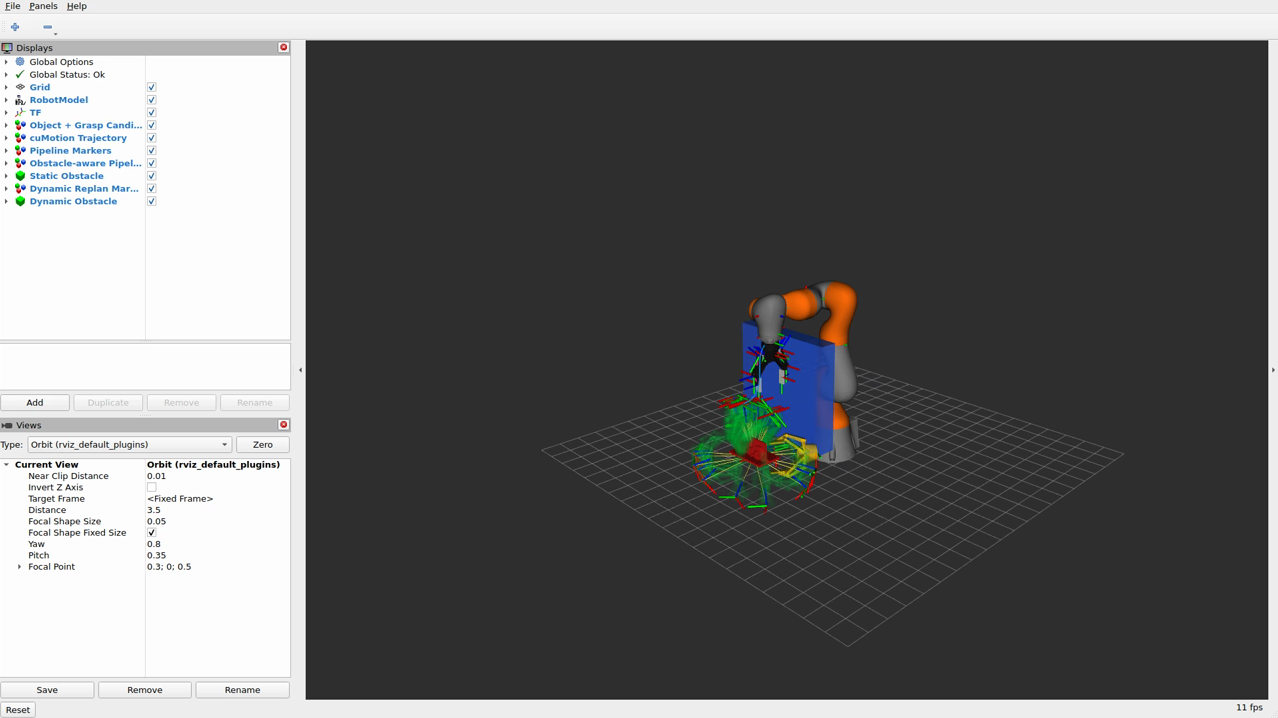
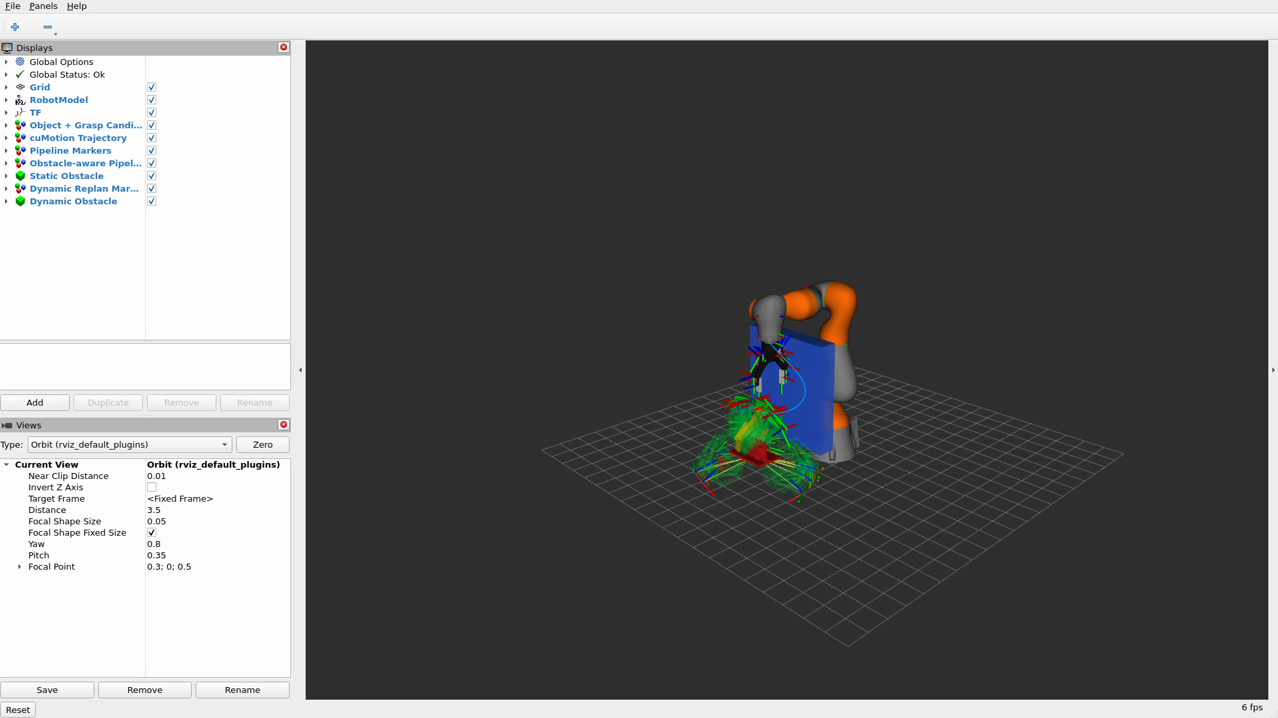
Fix mismatched grasp highlight in dynamic replan demo
dynamic_replan_planner did not instantiate GraspMarkerForwarder, so
the yellow-highlighted gripper shown in RViz was whatever an
earlier planner had latched on /graspgen/object_and_grippers rather
than the grasp this node was actually asking cuMotion to reach.
Create the forwarder and call ``highlight_gripper(selected_index)``
once the grasp is chosen so the recoloured marker and the real
goal pose always agree. Refresh the demo screenshot from a run
with the fix applied.

Changed region(s): [[0.5188, 0.429, 0.6408, 0.7047]]

diff --git a/colcon_ws/src/agile_manip_examples/agile_manip_examples/dynamic_replan_planner.py b/colcon_ws/src/agile_manip_examples/agile_manip_examples/dynamic_replan_planner.py
@@ -45,6 +45,7 @@ from agile_manip_examples.cumotion_utils import (
     moveit_error_name,
 )
 from agile_manip_examples.graspgen_utils import (
+    GraspMarkerForwarder,
     collect_grasp_candidates,
     grasp_frames_already_published,
     load_grasp_scores,
@@ -132,6 +133,12 @@ class DynamicReplanPlanner(Node):
         self.tf_buffer = Buffer()
         self.tf_listener = TransformListener(self.tf_buffer, self)
         self.tf_broadcaster = StaticTransformBroadcaster(self)
+        # Forwarder recolours the candidate gripper markers so the
+        # selected grasp is visibly highlighted in yellow; without it
+        # RViz would just show whatever latched MarkerArray an
+        # earlier planner left on /graspgen/object_and_grippers,
+        # making the highlight disagree with the actual cuMotion goal.
+        self.marker_forwarder = GraspMarkerForwarder(self)
 
         self._external_obstacle_xyz = None
         self._external_sub = self.create_subscription(
@@ -142,6 +149,7 @@ class DynamicReplanPlanner(Node):
         )
 
         self._selected_candidate = None
+        self._selected_index = None
         self._replan_in_flight = False
         self._replan_count = 0
         self._success_count = 0
@@ -259,10 +267,15 @@ class DynamicReplanPlanner(Node):
                     'multi_criteria_weight_reach').value,
             },
         )
-        _, self._selected_candidate = ordered[0]
+        self._selected_index, self._selected_candidate = ordered[0]
+        # Recolour the chosen gripper marker so the yellow highlight in
+        # RViz matches the pose cuMotion is actually being asked to
+        # reach. Without this the forwarder's latched MarkerArray from a
+        # previous demo could display a different gripper in yellow.
+        self.marker_forwarder.highlight_gripper(self._selected_index)
         self.get_logger().info(
-            f'Selected grasp confidence='
-            f'{self._selected_candidate.confidence}')
+            f'Selected grasp index={self._selected_index} '
+            f'confidence={self._selected_candidate.confidence}')
         return True
 
     # ------------------------------------------------------------------
